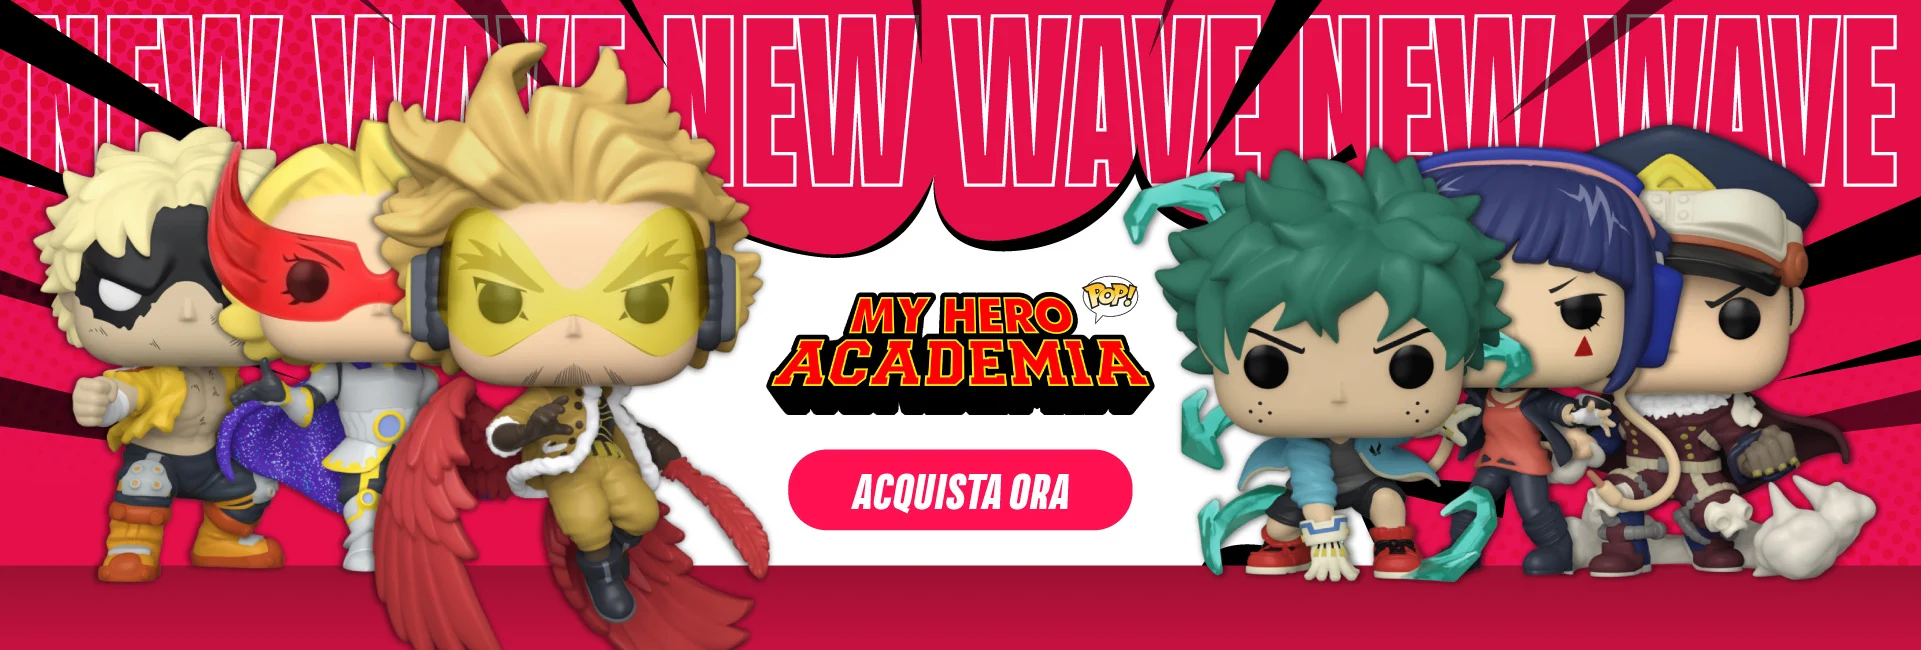
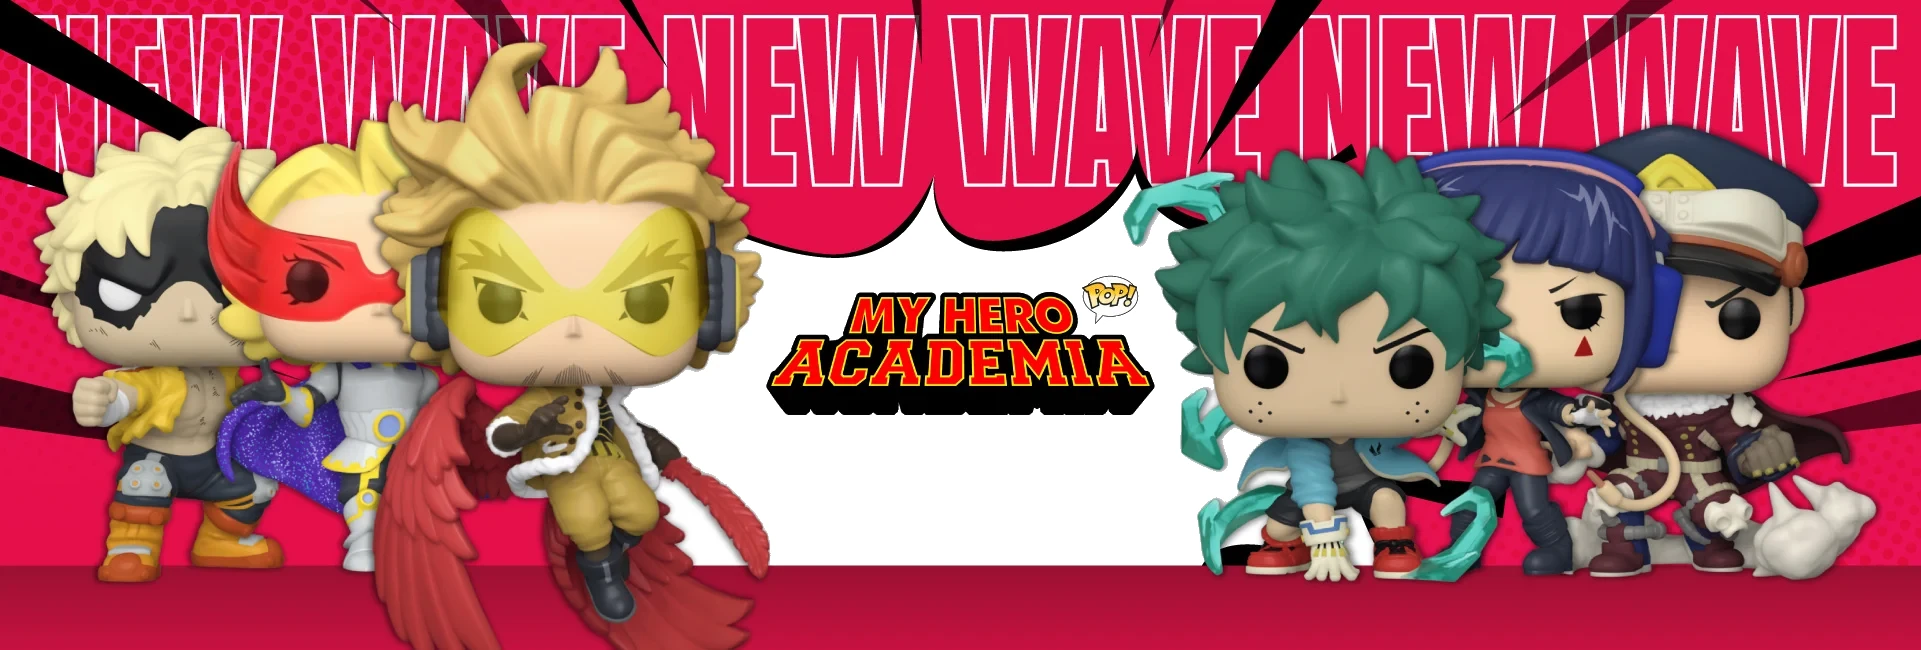
vetrina e pulsante

Changed region(s): [[0.406, 0.6769, 0.5934, 0.8308]]

diff --git a/index.html b/index.html
@@ -14,35 +14,40 @@
 <body>
     <!-- HEADER -->
     <header>
-       
-        <div class="header_flex-container">
+        <div class="main_header-vetrina_flex-container">
 
-            <!-- titolo e logo a sx -->
-        
-            <div class="logo">
-                <h1>OTAKU SHOPPU - E-COMMERCE</h1>
-                <img src="/img/logo.png" alt="logo store otaku shoppu">
-                
+            <div class="header_flex-container">
+
+                <!-- titolo e logo a sx -->
+
+                <div class="logo">
+                    <h1>OTAKU SHOPPU - E-COMMERCE</h1>
+                    <img src="/img/logo.png" alt="logo store otaku shoppu">
+
+                </div>
+
+                <!-- tasto cerca -->
+                <div class="search">
+                    <input type="search" placeholder="what are you looking for?">
+                </div>
+
+                <!-- user utility button -->
+                <div class="utilities">
+                    <a id="wish-list" href="#">&#128151;</a>
+                    <a id="cart" href="#">&#128722;</a>
+                    <a id="login" href="#">&#128100;</a>
+
+                </div>
             </div>
 
-            <!-- tasto cerca -->
-            <div class="search">
-                <input type="search" placeholder="what are you looking for?">
+            <!-- immagine vetrina negozio -->
+            <div class="vetrina">
+                <a id="buynow" href="#"> </a>
             </div>
 
-            <!-- user utility button -->
-            <div class="utilities">
-                <a href="#">&#128151;</a>
-                <a href="#">&#128722;</a>
-                <a href="#">&#128100;</a>
 
-            </div>
         </div>
 
-        <!-- immagine vetrina negozio -->
-        <div class="header_immagine-vetrina_flex-container">
-            <img src="img/vetrina1.webp" alt="immagine vetrina">
-        </div>
     </header>
 
     <main>
@@ -54,19 +59,19 @@
                 <div class="nav_flex-container">
                 </div>
             </nav>
-<!-- articoli -->
+            <!-- articoli -->
             <section>
                 <div class="product_flex-container">
                 </div>
             </section>
-<!-- sidebar a scomparsa . dati utenti? non convinta -->
+            <!-- sidebar a scomparsa . dati utenti? non convinta -->
             <aside>
                 <div class="sidebar_flex-container">
                 </div>
             </aside>
         </div>
     </main>
-<!-- footer 4pezzi -->
+    <!-- footer 4pezzi -->
     <footer>
         <div class="footer_flex-continer">
         </div>
@@ -74,3 +79,5 @@
 </body>
 
 </html>
+
+

diff --git a/style/style.css b/style/style.css
@@ -7,7 +7,6 @@
 /* class utilityes */
 
 [class*="flex-container"] {
-    border: 1px, solid rgb(29, 35, 41);
     display: flex;
 }
 
@@ -18,6 +17,8 @@ header h1 {
     display: inline-block;
     text-indent: -9999999999px;
 }
+
+/* header */
 
 header {
     width: 100%;
@@ -36,12 +37,11 @@ header {
     flex-shrink: 2;
 }
 
-
+/* logo */
 header .logo img {
-    max-width: 24rem;
-    /* ............................non so */
+    max-width: 24rem;    /* ............................non so */
 }
-
+/* tasto cerca */
 header .search {
     align-self: center;
     flex-grow: 5;
@@ -68,6 +68,8 @@ header [type=search]:focus {
     background-color: rgb(245, 245, 169);
 }
 
+/* utilities button */
+
 header .utilities {
     text-align: right;
     padding-top: 0.4rem;
@@ -77,5 +79,54 @@ header .utilities a {
     padding-right: 1rem;
     text-decoration: none;
     font-size: 1.5rem;
+    border: 3px outset rgb(69 169 179);
+    border-radius: 50%;
+    padding: 0.5rem 0.4rem;
+    margin-right: 0.5rem;
+    background-color:#119ba0;
+}
+
+#login{
+    padding: 0.5rem 0.5rem;
+}
+
+/* aggiunta vetrina */
+/* il problema delle altezze (rapporti) */
+.main_header-vetrina_flex-container{
+    flex-direction: column;
+}
+.main_header-vetrina_flex-container>.header_flex-container {
+
 
 }
+.main_header-vetrina_flex-container>.vetrina{
+    background-image: url(../img/vetrina2.webp);
+    background-repeat: no-repeat;
+    background-size: 100% 100%;
+    background-position: 0 0;
+    min-height: 450px;
+    max-height: 600px;
+
+}
+.vetrina>#buynow{
+    background-image:url(../img/buynow.png);
+    background-position: center;
+    background-size: contain;
+    display: inline-block;
+    background-repeat: no-repeat;
+    /* border: 1px solid black; */
+   width: 100%;
+   margin-top:310px;
+   height: 60px;
+
+ 
+
+}
+
+.vetrina img{
+    width: 100%;
+    max-height: 500px;
+}
+
+
+
